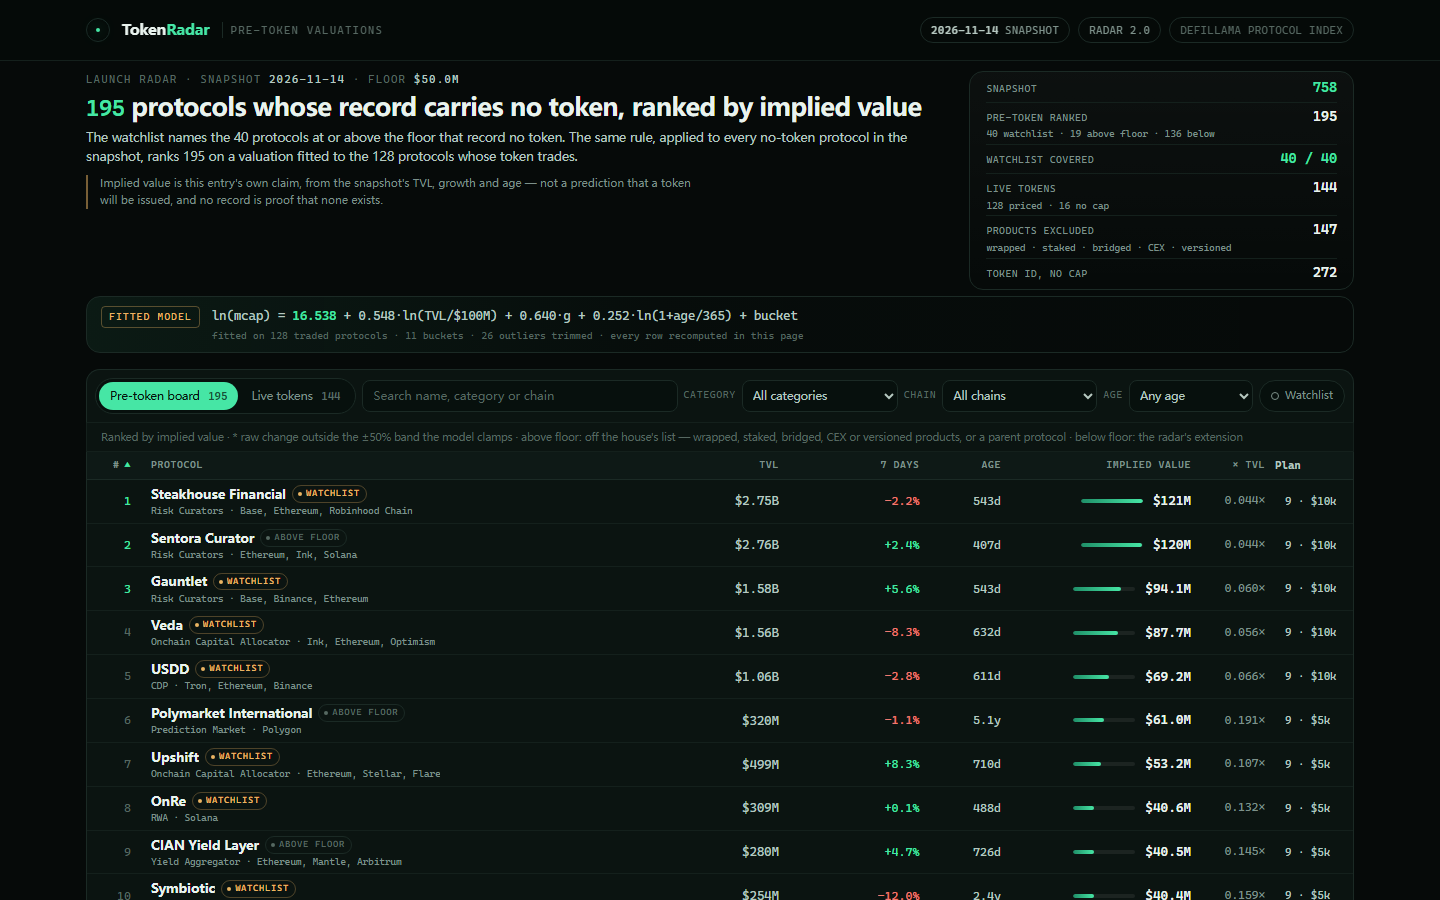
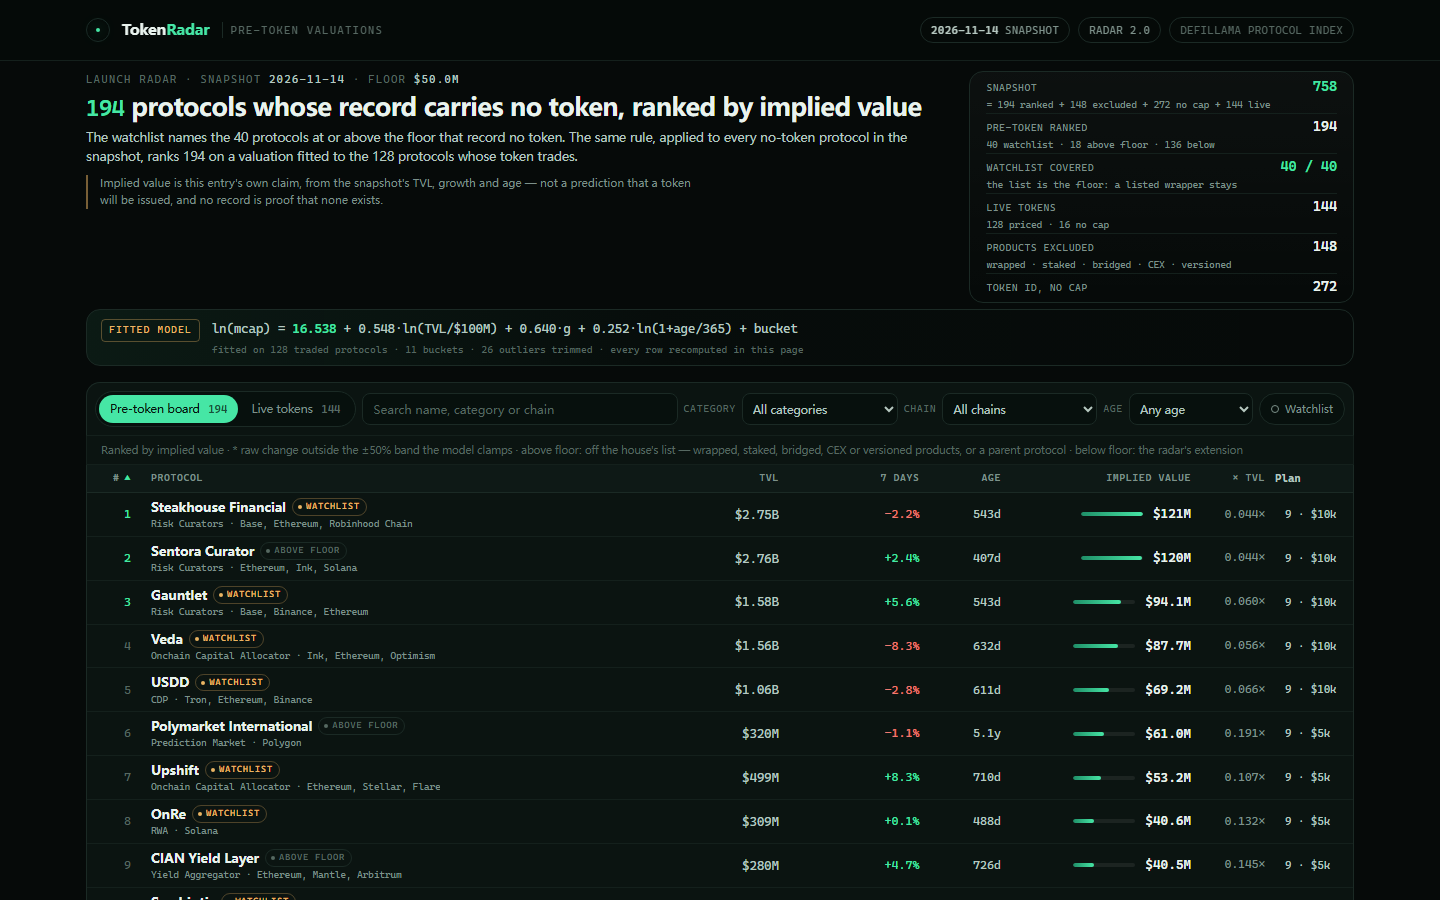
entry: v6 — the farm budget agrees with its deposit, the wrapper rule, the audit identity

diff --git a/dashboard/app.js b/dashboard/app.js
@@ -1,5 +1,5 @@
-// Token Radar — the page's behaviour. window.RADAR (main.ts) has the snapshot, model, board and live rows;
-// every value is recomputed from the fitted coefficients and checked against board.json's.
+// Token Radar — window.RADAR (main.ts) carries the snapshot, model, board and live rows; every value is
+// recomputed from the fitted coefficients and checked against board.json's.
 (function () {
   'use strict';
   var D = window.RADAR;
@@ -139,15 +139,15 @@
     document.getElementById('tab-live-count').textContent = D.live_size;
     document.getElementById('foot-source').textContent = D.source;
     document.getElementById('foot-scope').textContent =
-      'Floor ' + usdExact(D.floor_usd) + ' · ' + D.watchlist_size + ' watchlist protocols, all ranked · ' + (D.board_size - D.watchlist_size) +
+      'Floor ' + usdExact(D.floor_usd) + ' · ' + D.watchlist_size + ' watchlist protocols · ' + (D.board_size - D.watchlist_size) +
       ' more no-token · ' + D.live_size + ' live · ' + D.as_of + '.';
     var stats = document.getElementById('hero-stats');
     clear(stats);
     var A = D.audit;
     [
-      ['Snapshot', whole(A.total), '', 'mint'],
+      ['Snapshot', whole(A.total), '= ' + A.ranked + ' ranked + ' + A.excluded + ' excluded + ' + A.token_no_cap + ' no cap + ' + A.live + ' live', 'mint'],
       ['Pre-token ranked', whole(A.ranked), A.watchlist + ' watchlist · ' + A.above_floor_others + ' above floor · ' + A.below_floor + ' below'],
-      ['Watchlist covered', D.watchlist_size + ' / ' + D.watchlist_size, '', 'mint'],
+      ['Watchlist covered', D.watchlist_size + ' / ' + D.watchlist_size, 'the list is the floor: a listed wrapper stays', 'mint'],
       ['Live tokens', whole(A.live), A.live_priced + ' priced · ' + (A.live - A.live_priced) + ' no cap'],
       ['Products excluded', whole(A.excluded), 'wrapped · staked · bridged · CEX · versioned'],
       ['Token id, no cap', whole(A.token_no_cap)],
@@ -395,7 +395,7 @@
     body.appendChild(fragment);
     var foot = document.getElementById('board-foot');
     clear(foot);
-    foot.appendChild(document.createTextNode("The live set is the model's own exam: these " + D.live_size + " protocols record a market cap (the " + (D.audit.live - D.audit.live_priced) + " without a positive cap are marked), so the cap is a fact and the fitted value is what the model says about the same record. " +
+    foot.appendChild(document.createTextNode("The live set is the model's own exam: these " + D.live_size + " protocols record a market cap (" + (D.audit.live - D.audit.live_priced) + " without a positive cap, marked), so the cap is fact and the fitted value is the model's. " +
       "Sorted by how close the fit came: a ratio near 1.00 means the model priced the record like the market did; the outliers are why the median out-of-sample error is " + M.validation.median_factor + "×."));
   }
   function openDetail(slug) {

diff --git a/lib/farm.ts b/lib/farm.ts
@@ -156,7 +156,7 @@ function positionFor(input: FarmInput, capital: number, chain: string): string {
   if (category === 'Farm' || category === 'Governance Incentives') return `Stake ${usd(capital)} in ${name}'s farm on ${chain}, then claim and restake the rewards each week.`;
   if (category === 'Launchpad') return `Hold ${usd(capital)} ready in a ${name} account on ${chain} and join one launch a month rather than every launch.`;
   if (input.bucket === 'Lending') return `Supply ${usd(capital)} of USDC to ${name}'s ${chain} market and borrow 30% of it against the receipt if you want the extra exposure.`;
-  if (input.bucket === 'Stablecoin & CDP') return `Open a ${name} vault on ${chain}, deposit ${usd(capital * 2)} of collateral and mint ${usd(capital * 0.6)} of its stablecoin against it, keeping the ratio above 200%.`;
+  if (input.bucket === 'Stablecoin & CDP') return `Open a ${name} vault on ${chain}, deposit ${usd(capital)} of collateral and mint ${usd(capital * 0.4)} of its stablecoin against it, keeping the ratio above 200%.`;
   if (input.bucket === 'DEX') return `Provide ${usd(capital)} of liquidity to ${name}'s deepest USDC pair on ${chain}: 60% USDC and 40% the volatile side, then stake the LP receipt if the protocol allows it.`;
   if (input.bucket === 'Yield') return `Deposit ${usd(capital)} of USDC into ${name}'s largest vault on ${chain} and keep the vault shares in the farming wallet.`;
   if (input.bucket === 'Curators') return `Deposit ${usd(capital)} of USDC into the ${name} vault on ${chain} whose curator, fee and allocation are published, and keep the shares.`;

diff --git a/dashboard/app.css b/dashboard/app.css
@@ -53,11 +53,11 @@ main { max-width: 1340px; margin: 0 auto; padding: 0 36px; }
 .lede { margin-top: 6px; max-width: none; color: var(--ink-2); font-size: 12.5px; }
 .disclaimer { margin-top: 8px; max-width: 96ch; padding-left: 12px; border-left: 2px solid rgba(234, 180, 99, 0.5); color: var(--muted); font-size: 11px; }
 .stats { display: grid; margin: 0; padding: 2px 16px; border: 1px solid var(--line); border-radius: var(--r); background: linear-gradient(180deg, rgba(255, 255, 255, 0.028), transparent); }
-.fact { display: grid; grid-template-columns: 1fr auto; gap: 1px 10px; padding: 3px 0; border-bottom: 1px solid var(--line-2); align-items: baseline; }
+.fact { display: grid; grid-template-columns: 1fr auto; gap: 1px 10px; padding: 2px 0; border-bottom: 1px solid var(--line-2); align-items: baseline; }
 .fact:last-child { border-bottom: 0; }
 .fact span { font-family: var(--mono); font-size: 9.5px; letter-spacing: 0.08em; text-transform: uppercase; color: var(--muted); }
 .fact b { font-family: var(--mono); font-size: 14px; font-weight: 500; letter-spacing: -0.01em; }
-.fact em { grid-column: 1 / -1; font-family: var(--mono); font-size: 9.5px; line-height: 1.35; color: var(--muted); letter-spacing: 0; }
+.fact em { grid-column: 1 / -1; font-family: var(--mono); font-size: 9.5px; line-height: 1.3; color: var(--muted); letter-spacing: 0; }
 .fact.mint b { color: var(--mint); }
 
 /* model strip */

diff --git a/lib/model.ts b/lib/model.ts
@@ -267,7 +267,7 @@ const BUCKET_BY_CATEGORY: Record<string, string> = {
 };
 
 /** Categories whose TVL is a wrapped, staked or bridged product of an asset that already trades. */
-const PRODUCT_CATEGORY = new Set(['Bridge', 'Canonical Bridge', 'Cross Chain Bridge', 'Liquid Staking', 'Liquid Restaking', 'Restaked BTC', 'Anchor BTC', 'CEX']);
+const PRODUCT_CATEGORY = new Set(['Bridge', 'Canonical Bridge', 'Cross Chain Bridge', 'Liquid Staking', 'Liquid Restaking', 'Restaked BTC', 'Anchor BTC', 'CEX', 'Stablecoin Wrapper']);
 
 /** A name ending in a release marker is a pool or a product of another protocol, not a launch. */
 const VERSIONED_NAME = /\s(V\d+(\.\d+)?|v\d+(\.\d+)?|\d+\.\d+)$/;
@@ -721,7 +721,7 @@ export function buildRadar(snapshot: Snapshot, fit: FitModel, board: BoardRow[])
     watchlist: snapshot.watchlist.length,
     above_floor_others: board.filter((r) => !r.watchlist && r.tvl_usd >= snapshot.floor_usd).length,
     below_floor: board.filter((r) => !r.watchlist && r.tvl_usd < snapshot.floor_usd).length,
-    excluded: noToken.filter((p) => !isOwnProduct(p)).length,
+    excluded: noToken.filter((p) => !isOwnProduct(p) && !snapshot.watchlist.includes(p.slug)).length,
     token_no_cap: snapshot.protocols.filter((p) => p.mcap_usd === null && (p.gecko_id !== null || p.symbol !== null)).length,
     live: live.length,
     live_priced: live.filter((r) => r.mcap_usd > 0).length,

diff --git a/dashboard/index.html b/dashboard/index.html
@@ -71,7 +71,7 @@
       </table>
       <div class="empty" id="board-empty" hidden>
         <b>No protocol matches those filters</b>
-        <span>Clear the search or pick another category to see the board again.</span>
+        <span>Clear the search or pick another category.</span>
         <button type="button" class="chip" data-reset>Clear filters</button>
       </div>
     </div>

diff --git a/README.md b/README.md
@@ -11,10 +11,10 @@ and hands the reader a static dashboard with a detail view per protocol.
 The snapshot is DefiLlama's protocol index fetched on 2026-11-14: 758 protocols, 40 on the house's
 watchlist (no token on record, at or above the $50M floor, not a wrapped, staked or bridged product).
 The watchlist is a floor, never a ceiling, so the radar applies the same product rules below it and
-ranks **195 protocols**: the 40 watchlist names, 19 more above the floor that the house's list leaves out,
-and 136 below it. A full-snapshot audit accounts for all 758: 195 ranked pre-token, 147 no-token products
-excluded (wrapped, staked or bridged products, CEX and versioned pools), 272 protocols with a token id but
-no market cap, and 144 live tokens.
+ranks **194 protocols**: the 40 watchlist names, 18 more above the floor that the house's list leaves out,
+and 136 below it. A full-snapshot audit accounts for all 758: 194 ranked pre-token, 148 no-token products
+excluded (wrapped, staked or bridged products, stablecoin wrappers, CEX and versioned pools; a name on the
+house's list stays), 272 protocols with a token id but no market cap, and 144 live tokens.
 
 ## The value model
 
@@ -46,7 +46,7 @@ On this snapshot:
 The cross-section is noisy, and the dashboard says so: the ranking is the model's claim, the absolute
 value is an estimate. Growth and age are small tilts, and every row shows both multipliers.
 
-The same equation is applied to the 195 pre-token protocols. No protocol name is special-cased: the
+The same equation is applied to the 194 pre-token protocols. No protocol name is special-cased: the
 category map knows DefiLlama's taxonomy, not a list of winners.
 
 ## The page
@@ -73,7 +73,7 @@ MAKEFUN_OUTPUT_DIR=out node main.ts --input <kit>/input/snapshot.json
 Node 22.18 or later, the standard library only, no install. The program writes:
 
 ```text
-out/board.json        the ranked board: 195 rows, each with rank, implied value and farm steps
+out/board.json        the ranked board: 194 rows, each with rank, implied value and farm steps
 out/data.js           the dashboard's inputs and the fitted model
 out/dashboard/        the static page
 out/screenshots/      the three captured views
@@ -89,7 +89,7 @@ node tools/gate.mjs --snapshot <kit>/input/snapshot.json --out out
 The tool checks the seven rows make.fun's scorer checks (board shape and ordering, watchlist coverage,
 farm steps, dashboard files and network addresses, screenshots, dossier bytes) plus two local checks:
 the dashboard's text source fits the dossier's 64 KiB cap, and a local Chromium re-runs the page's own
-model and compares all 195 values and plans with `board.json`.
+model and compares all 194 values and plans with `board.json`.
 
 Two runs of `main.ts` into different directories are byte-for-byte identical: the fit has no random
 seed in it, the validation's folds come from a fixed PRNG, and every write is ordered.
